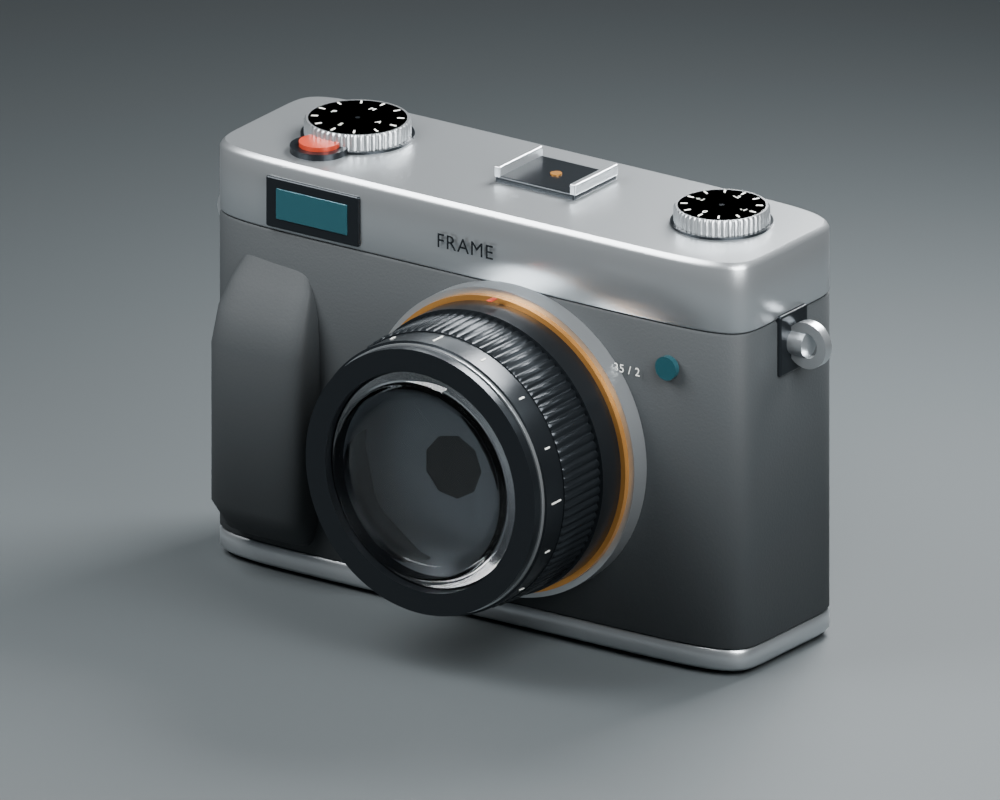
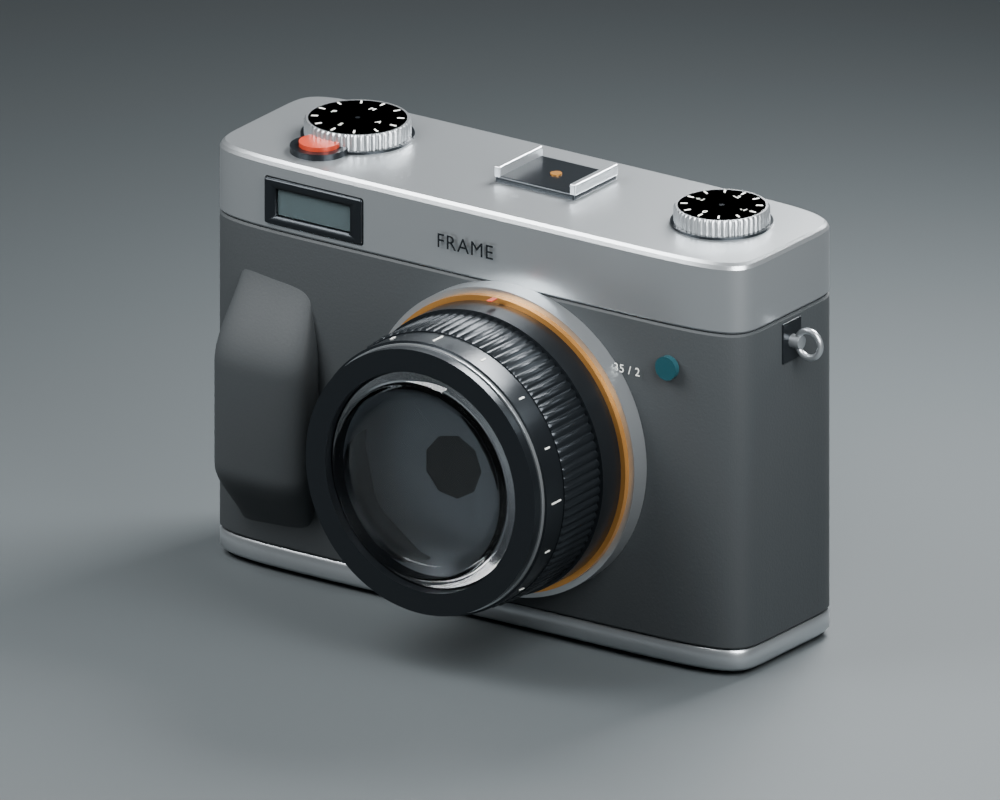
Smooth camera grip and recess viewfinder glazing [skip ci]

diff --git a/examples/compact_camera.py b/examples/compact_camera.py
@@ -94,11 +94,16 @@ def build(output):
     casing('Upper recessed gasket',[(68.8,59.4,17.4),(69.5,59.4,17.4)],black)
     casing('Lower recessed gasket',[(6.5,59.4,17.4),(7.2,59.4,17.4)],black)
     # Taper both ends into the body; no separate projecting top plate.
-    grip=assign(sectionstock.create('Tapered front grip',[
-        [8,-44,-16.6,7,1.0],[10,-44,-18.5,9,3.0],
-        [16,-44,-20.6,10.5,5.0],[47,-44,-20.6,10.5,5.0],
-        [54,-44,-19.6,10,4.0],[59,-44,-17.8,8.8,2.2],
-        [63,-44,-16.6,7,1.0]],exponent=4,segments=128),rubber)
+    grip_rows=[]
+    for i in range(57):
+        z=8+i
+        low=max(0,min(1,(z-8)/15))
+        high=max(0,min(1,(64-z)/21))
+        ease=(low*low*(3-2*low))*(high*high*(3-2*high))
+        hy=.6+4.2*ease
+        grip_rows.append([z,-44,-15.6-hy,7.5+3*ease,hy])
+    grip=assign(sectionstock.create('Tapered front grip',grip_rows,
+                                    exponent=3,segments=128),rubber)
     materials.finish([grip], 'Grip fine grain', role='rubber', color=(.025,.03,.033,1),
                      roughness=.7, variation=.03, grain_mm=.5, bump_mm=.025, seed=19)
     # Lens axis: -Y. Ring bores and the glass share the same centre.
@@ -167,8 +172,22 @@ def build(output):
     for x in (-3.5,13.5):box('Hot shoe rail '+str(x),(1.4,14,2.2),(x,3,85),silver,.3)
     cylinder('Hot shoe contact',(5,3,84),(5,3,84.5),1.1,brass)
     # Front window and autofocus lamp.
-    box('Viewfinder surround',(21,1.1,10),(-35,-18.1,75),black,.5)
-    box('Viewfinder window',(16,.3,6),(-35,-18.7,75),glass,.12)
+    finder_glass=material('Viewfinder coated glass',(.22,.3,.32),0,.12,.8)
+    finder_pairs=[]
+    for side,sign in (('Front',-1),('Rear',1)):
+        cut=mechanical.cut_box(upper,side+' finder body recess',(22.4,3.2,9.4),(-35,sign*17.5,75),.6)
+        upper.hide_render=True;upper.hide_set(True);parts.append(cut);upper=cut
+        stock=box(side+' finder rim stock',(22,1.4,9),(-35,sign*17.8,75),black,.5)
+        rim=mechanical.cut_box(stock,side+' recessed finder rim',(17,3,5.6),(-35,sign*17.8,75),.5)
+        stock.hide_render=True;stock.hide_set(True);parts.append(rim)
+        pane=box(side+' recessed finder glass',(16.6,.3,5.2),(-35,sign*17.65,75),finder_glass,.12)
+        box(side+' finder dark well',(17,.3,5.6),(-35,sign*16.5,75),cavity_material,.12)
+        finder_pairs.append((rim,pane,sign))
+    upper_normals=[(0,0,0)]*len(upper.data.loops)
+    for face in upper.data.polygons:
+        face.use_smooth=False
+        for index in face.loop_indices:upper_normals[index]=tuple(face.normal)
+    upper.data.normals_split_custom_set(upper_normals)
     cylinder('Autofocus lamp',(45,-18,61),(45,-19.2,61),2.3,glass)
     label('FRAME',(-7,-18.6,74),4,black)
     label('35 / 2',(33,-18.7,58),2.3,white)
@@ -197,8 +216,6 @@ def build(output):
         label(text,(48,19, z-5),1.6,white,rear=True)
     for obj in set(bpy.data.objects)-controls_before:
         obj.location.y-=.5
-    box('Rear viewfinder eyecup',(25,1.2,12),(-35,18.3,75),black,.4)
-    box('Rear viewfinder glass',(17,.4,6),(-35,19.0,75),glass,.15)
 
     def screw(name, x, y, z, rear=True):
         direction=1 if rear else -1
@@ -209,11 +226,16 @@ def build(output):
         return result
     for x,z in ((33,15),(53,15),(33,65),(53,65)):
         screw('Rear panel screw %s %s'%(x,z),x,18.2 if x>0 else 17.8,z)
+    strap_eyes=[]
     for x in (-60,60):
-        box('Strap mounting plate '+str(x),(1.5,9,12),(x,0,64),black,.5)
+        box('Strap mounting plate '+str(x),(.65,6,8),(x,0,64),black,.25)
         sign=1 if x>0 else -1
-        cylinder('Strap stud '+str(x),(x,0,64),(x+sign*4,0,64),2.5,silver)
-        ring('Strap eye '+str(x),(x+sign*4,-1,64),2,4.5,2.5,silver,(0,1,0))
+        cylinder('Strap stud '+str(x),(x,0,64),(x+sign*2.4,0,64),1.3,silver)
+        profile=[[2.6+.6*math.cos(math.tau*i/16),.6*math.sin(math.tau*i/16)] for i in range(16)]
+        eye=construction.revolve('Rounded strap eye '+str(x),profile,segments=96,closed=True,
+                                 location=(x+sign*4,0,64))
+        eye.rotation_euler=(math.pi/2,0,0)
+        assign(eye,silver);strap_eyes.append(eye)
 
     # A real bottom opening, not a hatch drawn over a solid body. Retain the
     # uncut construction objects hidden; the first native model stays untouched.
@@ -360,6 +382,14 @@ def build(output):
     mechanical.remove(probe)
     if not all((control_apertures,shafts_clear,oversized_rejected,guides_attached)):
         raise ValueError('Button aperture/shaft clearance or negative fit check failed')
+    finder_clear=all(not tree(rim).overlap(tree(pane)) for rim,pane,_ in finder_pairs)
+    finder_apertures=all(tree(rim).ray_cast(Vector((-35,sign*20,75)),Vector((0,-sign,0)),6)[0] is None
+                         for rim,_,sign in finder_pairs)
+    strap_bores=all(tree(eye).ray_cast(Vector((eye.location.x,-3,64)),Vector((0,1,0)),6)[0] is None
+                    for eye in strap_eyes)
+    grip_attached=bool(tree(grip).overlap(tree(seated_body)))
+    if not all((finder_clear,finder_apertures,strap_bores,grip_attached)):
+        raise ValueError('Finder recess, strap bore or grip attachment failed')
     display_clear=not tree(display_frame).overlap(tree(display_glass))
     if not display_clear:raise ValueError('Inset display glass intersects bezel')
     latch_fits=not tree(latch_tongue).overlap(tree(receiver))
@@ -392,6 +422,8 @@ def build(output):
             'control_apertures_open':control_apertures,'button_shafts_clear':shafts_clear,
             'guide_supports_attached':bool(guides_attached),
             'oversized_shaft_rejected':oversized_rejected,'shaft_radial_clearance_mm':.2,
+            'finder_glass_rims_clear':finder_clear,'finder_apertures_open':finder_apertures,
+            'strap_bores_open':strap_bores,'grip_attached':grip_attached,
             'display_glass_bezel_clear':display_clear,
             'panel_bores_open':panel_bores,'panel_gasket_contact':panel_contact,
             'door_seal_seat_contact':seal_contact,'latch_fits_receiver':latch_fits,

diff --git a/docs/STATUS.md b/docs/STATUS.md
@@ -2,6 +2,21 @@
 
 ## Compact camera exterior — 2026-10-23
 
+Contour and fitting revision: the grip now uses 57 eased sections and rounder
+cross-sections instead of seven linear stations. Both viewfinders have body
+recesses, open rims, recessed coated glass and dark backing wells. The side strap
+mounts and studs are smaller; rounded-wire eyes replace the thick flat washers.
+Native result: `runs/compact-camera-contours/camera.blend`.
+
+Focused checks cover grip/body intersection, open finder apertures, glass/rim
+clearance and open strap eyes. The viewfinder is a visual assembly, not a
+validated optical path; strap strength is not simulated. Blender 5.2.2 LTS
+passed the checks. Front and rear renders were visually inspected: the finder
+glass sits behind its rim, the strap eye is thinner and the grip transitions
+are smoother. The grip remains a distinct attached part. Blender exited after
+one generation and two renders, using one process and two CPU threads.
+Previous revisions follow.
+
 Exterior integration revision addresses the four user-marked areas. A tapered
 section grip replaces the rounded block and projecting top plate. The control
 panel, gasket and body seat extend down to align with the screen; lower fasteners
